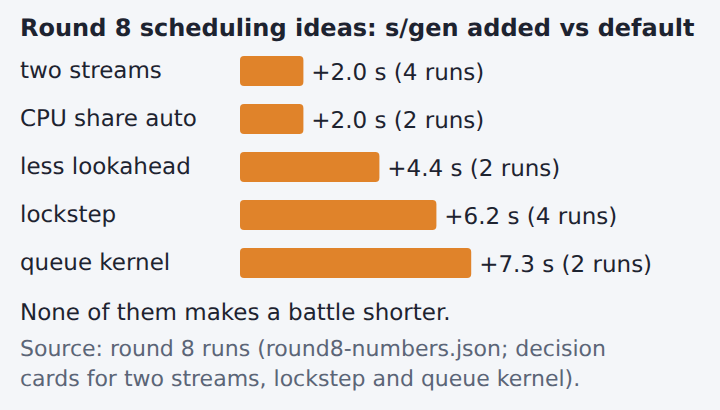
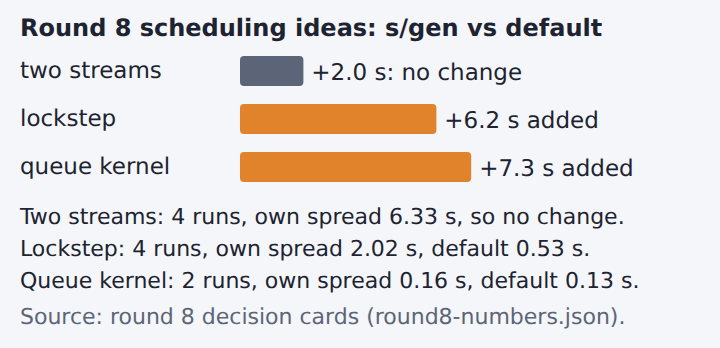
gpu round 9: page fixes from check round 23 (two streams shown as no change inside its spread, replay count is best of two)
Claude-Session: https://claude.ai/code/session_01Ws3K6hiVf42Evxx3QjPVsr

diff --git a/docs/gpu-round9-explained.md b/docs/gpu-round9-explained.md
@@ -31,17 +31,17 @@ It sits in GPU main memory, behind L1 and L2. In the 10:37 ET Nsight run (5k lau
 
 Round 8's compact state packs fields into 8 and 16 bits. It saved 0.5 s per generation in an A/B of 3 runs each.
 
-## Each scheduling idea added time
+## Scheduling ideas did not help
 
-![Five round-8 scheduling ideas each added 2.0 to 7.3 s per generation](gpu-r9-scheduling.png)
+![Round 8: two streams made no change; lockstep added 6.2 s and the queue kernel 7.3 s per generation](gpu-r9-scheduling.png)
 
-Two streams overlap CPU-side work with the GPU. CPU share auto moves some battles to the CPU.
+Two streams overlap CPU-side work with the GPU. A change counts only if it beats both spreads (see the last section).
 
-Less lookahead memory re-runs battles that overflow it, one at a time.
+Lockstep makes the threads of a warp step through battles together.
 
 The queue kernel hands threads whole battles from a list.
 
-None makes a battle shorter, and a launch still waits for its longest one. I did not measure why each one added time.
+None makes a battle shorter, and a launch still waits for its longest one. I did not measure why two of them added time.
 
 ## The tail, and why it is the target
 
